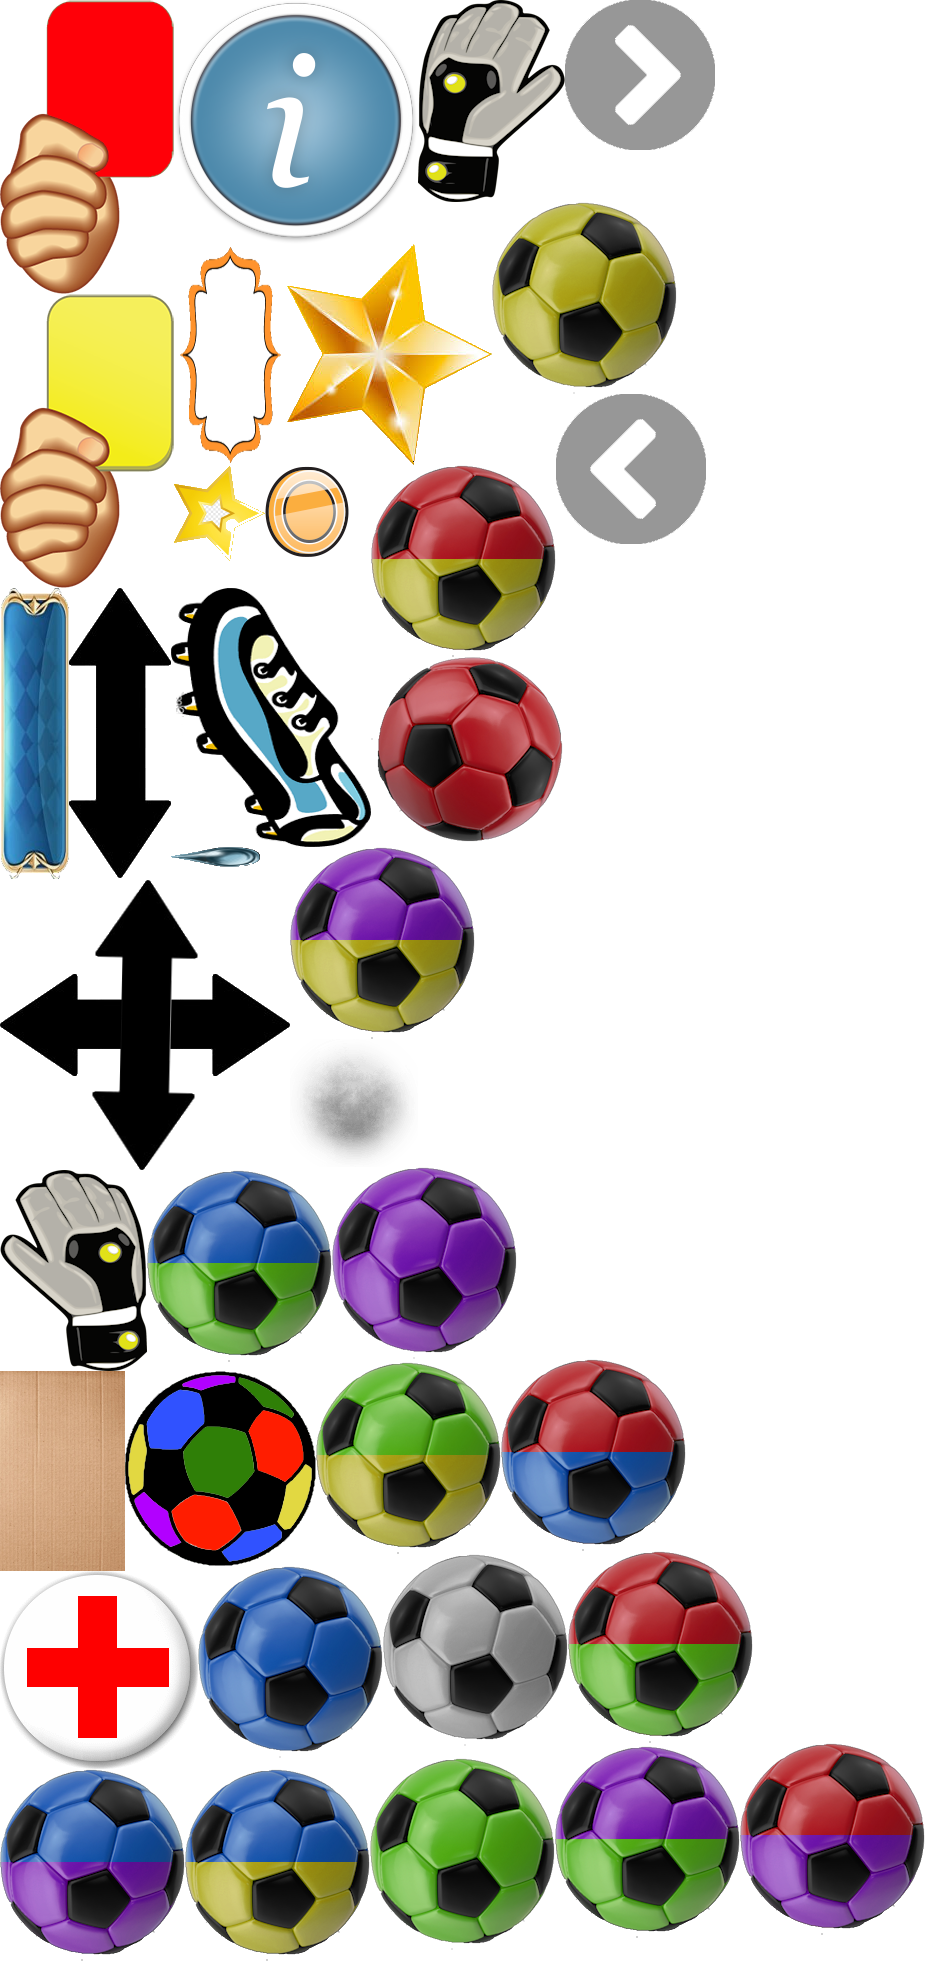
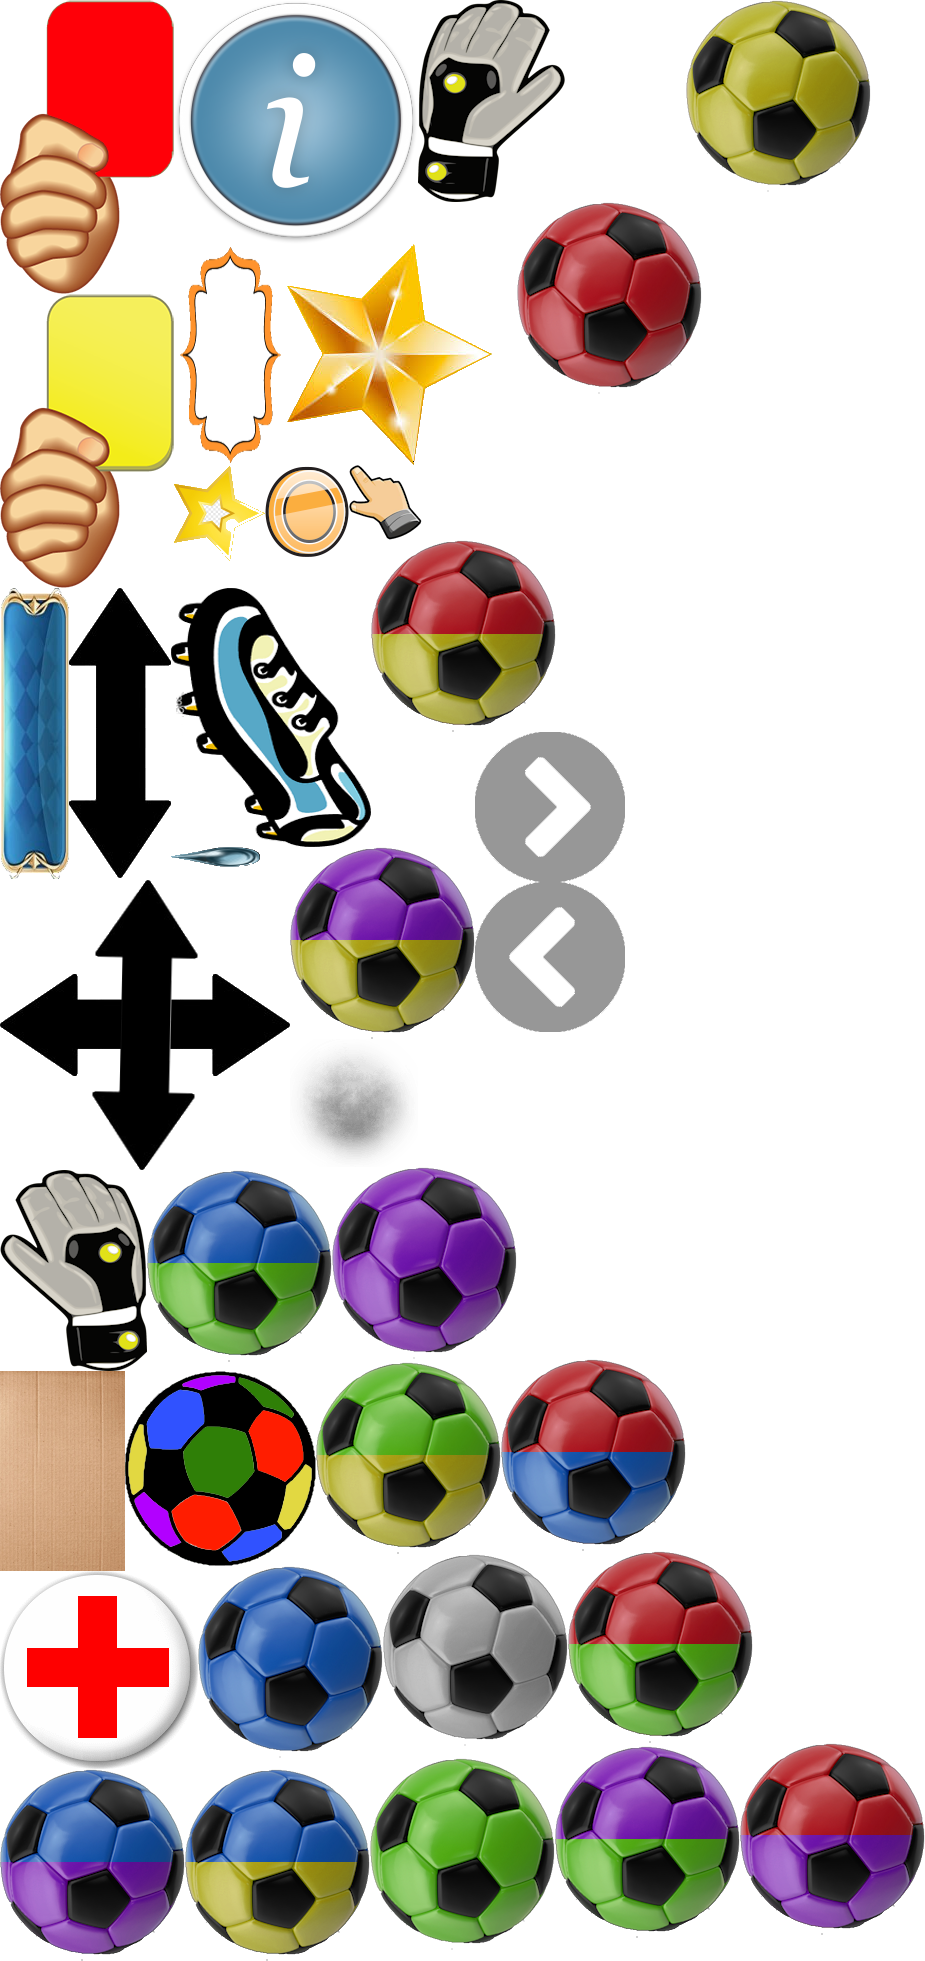
pointer hand  image used for hint move

Changed region(s): [[0.3632, 0.0, 0.9384, 0.5288]]

diff --git a/src/game_level/Grid.ts b/src/game_level/Grid.ts
@@ -43,7 +43,7 @@ export default class Grid extends Container {
     private fallingBlocksOnColumn: any = {};
     private delayStep: number = 0.05
     private fallTweenDuration: number = 0.35;
-    private hintTween1: gsap.core.Tween;
+    private hintTween1: gsap.core.Timeline;;
     private hintTween2: gsap.core.Tween;
 
     constructor() {
@@ -89,6 +89,11 @@ export default class Grid extends Container {
             this.mask = mask;
             // this.checkPossibleMove(2, true);  
         }, 0);
+
+        // this.hintHand = Sprite.from(`pointer-hand`);
+        // this.hintHand.position.set(150, 150)
+        // this.hintHand.scale.set(0.65)
+        // this.level.addChild(this.hintHand);
     }
 
     private swapBlocks(block1_x: number, block1_y: number, dir: string) {
@@ -1087,43 +1092,40 @@ export default class Grid extends Container {
     }
 
     private addHint() {
-        this.hintTimeout = gsap.delayedCall(5, () => {
+        this.hintTimeout = gsap.delayedCall(6, () => {
+            let target1 = this.blocks[this.hintMatch.row][this.hintMatch.col];
+            let target2;
+            if (this.hintMatch.dir === "right") {
+                target2 = this.blocks[this.hintMatch.row][this.hintMatch.col + 1];
+            }
+            else if (this.hintMatch.dir === "down") {
+                target2 = this.blocks[this.hintMatch.row + 1][this.hintMatch.col];
+            }
+            else if (this.hintMatch.dir === "leftUp") {
+                target2 = this.blocks[this.hintMatch.row - 1][this.hintMatch.col - 1];
+            }
+            else {// rightUp
+                target2 = this.blocks[this.hintMatch.row - 1][this.hintMatch.col + 1];
+            }
+            
+            this.level.hintHand.position.set(target1.blockImg.x, target1.blockImg.y);
+            this.level.hintHand.visible =true;
+            this.hintTween1 = gsap.timeline({ paused: false });
+            this.hintTween1.to(this.level.hintHand, 0.75, {
+                x: target2.blockImg.x,
+                y:  target2.blockImg.y,
+                yoyo: true,
+                repeat: -1,
+                ease: "Power2.easeInOut",
+            });
+
             let start = () => {
                 this.hintInterval = gsap.delayedCall(0.6, () => {
-                    let target1 = this.blocks[this.hintMatch.row][this.hintMatch.col];
-                    let target2;
-                    if (this.hintMatch.dir === "right") {
-                        target2 = this.blocks[this.hintMatch.row][this.hintMatch.col + 1];
-                    }
-                    else if (this.hintMatch.dir === "down") {
-                        target2 = this.blocks[this.hintMatch.row + 1][this.hintMatch.col];
-                    }
-                    else if (this.hintMatch.dir === "leftUp") {
-                        target2 = this.blocks[this.hintMatch.row - 1][this.hintMatch.col - 1];
-                    }
-                    else {// rightUp
-                        target2 = this.blocks[this.hintMatch.row - 1][this.hintMatch.col + 1];
-                    }
-
-                    let width1 = target1.width! * 1.05;
-                    let height1 = target1.height! * 1.05;
-                    let width2 = target2.width! * 1.05;
-                    let height2 = target2.height! * 1.05;
-
-                    this.hintTween1 = gsap.to(target1.blockImg, 0.3, {
-                        width: width1,
-                        height: height1,
-                        yoyo: true,
-                        repeat: 1
-                    });
-                    this.hintTween2 = gsap.to(target2.blockImg, 0.3, {
-                        width: width2,
-                        height: height2,
-                        yoyo: true,
-                        repeat: 1
-                    });
                     if (!this.level.animationInProgress && !App.specialInProgress) {
                         start();
+                    }else{
+                        this.hintTween1.kill();
+                        this.level.hintHand.visible = false;
                     }
                 });
             }

diff --git a/src/scenes/Level.ts b/src/scenes/Level.ts
@@ -39,6 +39,7 @@ export class Level extends Container implements IScene {
     public allSpecials: string[] = [];
     private opponentSpecials: string[] = [];
     private shockWaveFilter: ShockwaveFilter | null = null;
+    public hintHand: Sprite;
 
     constructor() {
         super();
@@ -173,6 +174,7 @@ export class Level extends Container implements IScene {
         }
 
         this.addChild(this.grid);
+        this.addHintHand();
         this.addRandomDefense();
         //TODO - this.addSelectedDefences(); // add player's selected defences
         // // this.addSnow();
@@ -183,6 +185,14 @@ export class Level extends Container implements IScene {
     //     this.addChild(this.snowContainer.container);
     //     this.snowContainer.update();
     // }
+
+    public addHintHand(){
+        this.hintHand = Sprite.from(`pointer-hand`);
+        this.hintHand.position.set(150, 150)
+        this.hintHand.scale.set(0.65);
+        this.hintHand.visible = false;
+        this.addChild(this.hintHand);
+    }
 
     public addRandomDefense() {
         ///inital defenses and ball points
